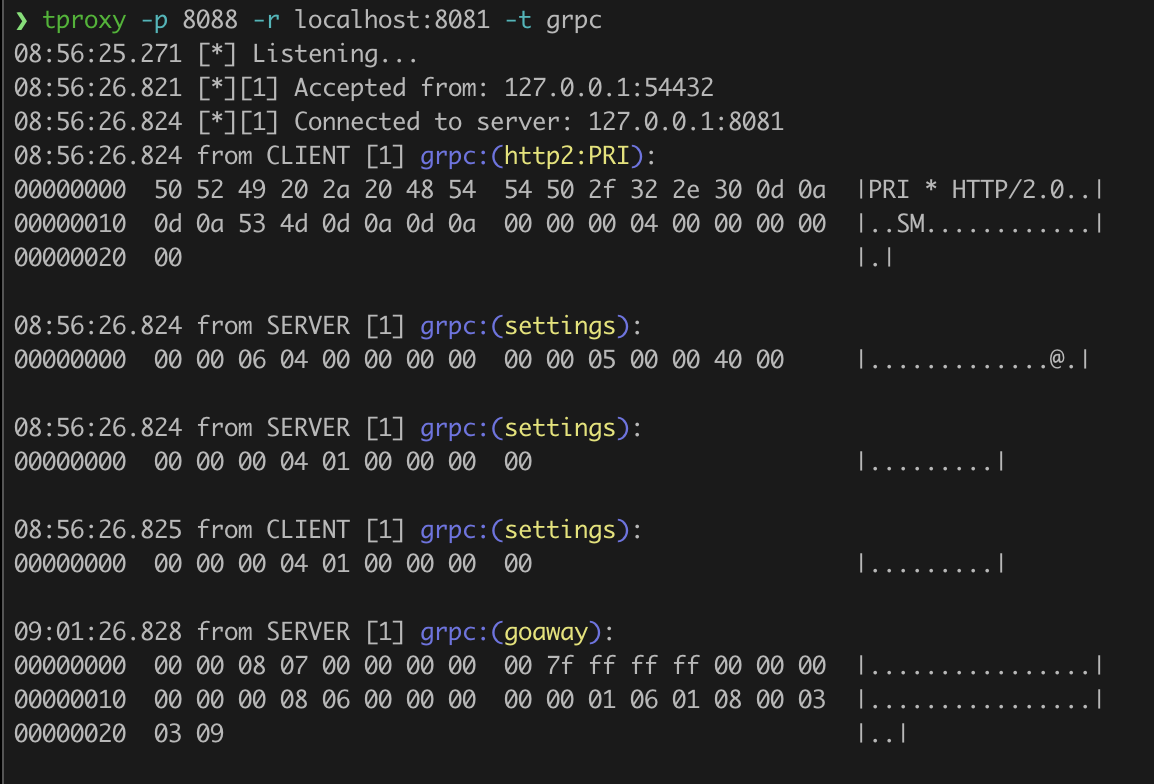
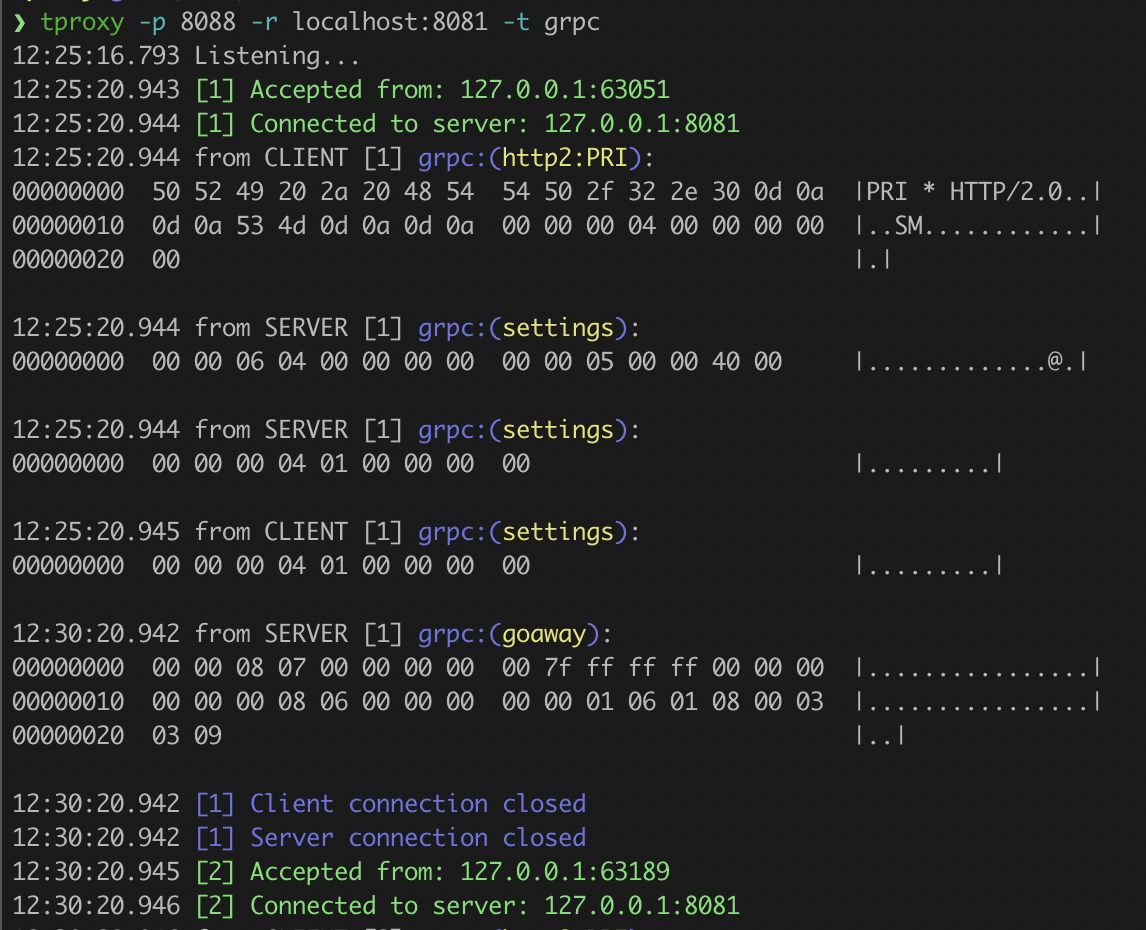
update terminal colors

diff --git a/conn.go b/conn.go
@@ -6,6 +6,7 @@ import (
 	"net"
 	"sync"
 
+	"github.com/fatih/color"
 	"github.com/kevwan/tproxy/display"
 	"github.com/kevwan/tproxy/protocol"
 )
@@ -38,7 +39,7 @@ func (c *PairedConnection) handleClientMessage() {
 
 	_, e := io.Copy(tee, c.cliConn)
 	if e != nil && e != io.EOF {
-		fmt.Printf("handleClientMessage: io.Copy error: %v", e)
+		color.HiRed("handleClientMessage: io.Copy error: %v", e)
 	}
 }
 
@@ -50,7 +51,7 @@ func (c *PairedConnection) handleServerMessage() {
 	if e != nil && e != io.EOF {
 		netOpError, ok := e.(*net.OpError)
 		if ok && netOpError.Err.Error() != useOfClosedConn {
-			fmt.Printf("handleServerMessage: io.Copy error: %v", e)
+			color.HiRed("handleServerMessage: io.Copy error: %v", e)
 		}
 	}
 
@@ -60,11 +61,11 @@ func (c *PairedConnection) handleServerMessage() {
 func (c *PairedConnection) process() {
 	conn, err := net.Dial("tcp", settings.RemoteHost)
 	if err != nil {
-		display.PrintfWithTime("[x][%d] Couldn't connect to server: %v\n", c.id, err)
+		display.PrintlnWithTime(color.HiRedString("[x][%d] Couldn't connect to server: %v", c.id, err))
 		return
 	}
 
-	display.PrintfWithTime("[*][%d] Connected to server: %s\n", c.id, conn.RemoteAddr())
+	display.PrintlnWithTime(color.HiGreenString("[%d] Connected to server: %s", c.id, conn.RemoteAddr()))
 
 	c.svrConn = conn
 	go c.handleServerMessage()
@@ -76,11 +77,11 @@ func (c *PairedConnection) process() {
 func (c *PairedConnection) stop() {
 	c.once.Do(func() {
 		if c.cliConn != nil {
-			display.PrintfWithTime("[*][%d] Client connection closed\n", c.id)
+			display.PrintlnWithTime(color.HiBlueString("[%d] Client connection closed", c.id))
 			c.cliConn.Close()
 		}
 		if c.svrConn != nil {
-			display.PrintfWithTime("[*][%d] Server connection closed\n", c.id)
+			display.PrintlnWithTime(color.HiBlueString("[%d] Server connection closed", c.id))
 			c.svrConn.Close()
 		}
 	})
@@ -92,7 +93,7 @@ func startListener() error {
 		return fmt.Errorf("failed to start listener: %w", err)
 	}
 
-	display.PrintlnWithTime("[*] Listening...")
+	display.PrintlnWithTime("Listening...")
 	defer conn.Close()
 
 	var connIndex int
@@ -103,7 +104,7 @@ func startListener() error {
 		}
 
 		connIndex++
-		display.PrintfWithTime("[*][%d] Accepted from: %s\n", connIndex, cliConn.RemoteAddr())
+		display.PrintlnWithTime(color.HiGreenString("[%d] Accepted from: %s", connIndex, cliConn.RemoteAddr()))
 
 		pconn := NewPairedConnection(connIndex, cliConn)
 		go pconn.process()

diff --git a/readme.md b/readme.md
@@ -61,7 +61,7 @@ $ tproxy -p 8088 -r localhost:8081 -t grpc
 - redirect the traffic to localhost:8081
 - protocol type to be gRPC
 
-![grpc](images/grpc.png)
+<img width="600" alt="image" src="images/grpc.png">
 
 ### Monitor MySQL connections
 
@@ -69,7 +69,7 @@ $ tproxy -p 8088 -r localhost:8081 -t grpc
 $ tproxy -p 3307 -r localhost:3306
 ```
 
-![mysql](images/mysql.png)
+<img width="600" alt="image" src="images/mysql.png">
 
 ## Give a Star! ⭐
 

diff --git a/readme-cn.md b/readme-cn.md
@@ -61,7 +61,7 @@ $ tproxy -p 8088 -r localhost:8081 -t grpc
 - 重定向请求到 localhost:8081
 - 识别数据包格式为 gRPC
 
-![grpc](images/grpc.png)
+<img width="600" alt="image" src="images/grpc.png">
 
 ### 分析 MySQL 连接
 
@@ -69,7 +69,7 @@ $ tproxy -p 8088 -r localhost:8081 -t grpc
 $ tproxy -p 3307 -r localhost:3306
 ```
 
-![mysql](images/mysql.png)
+<img width="600" alt="image" src="images/mysql.png">
 
 ## 欢迎 star！⭐
 
